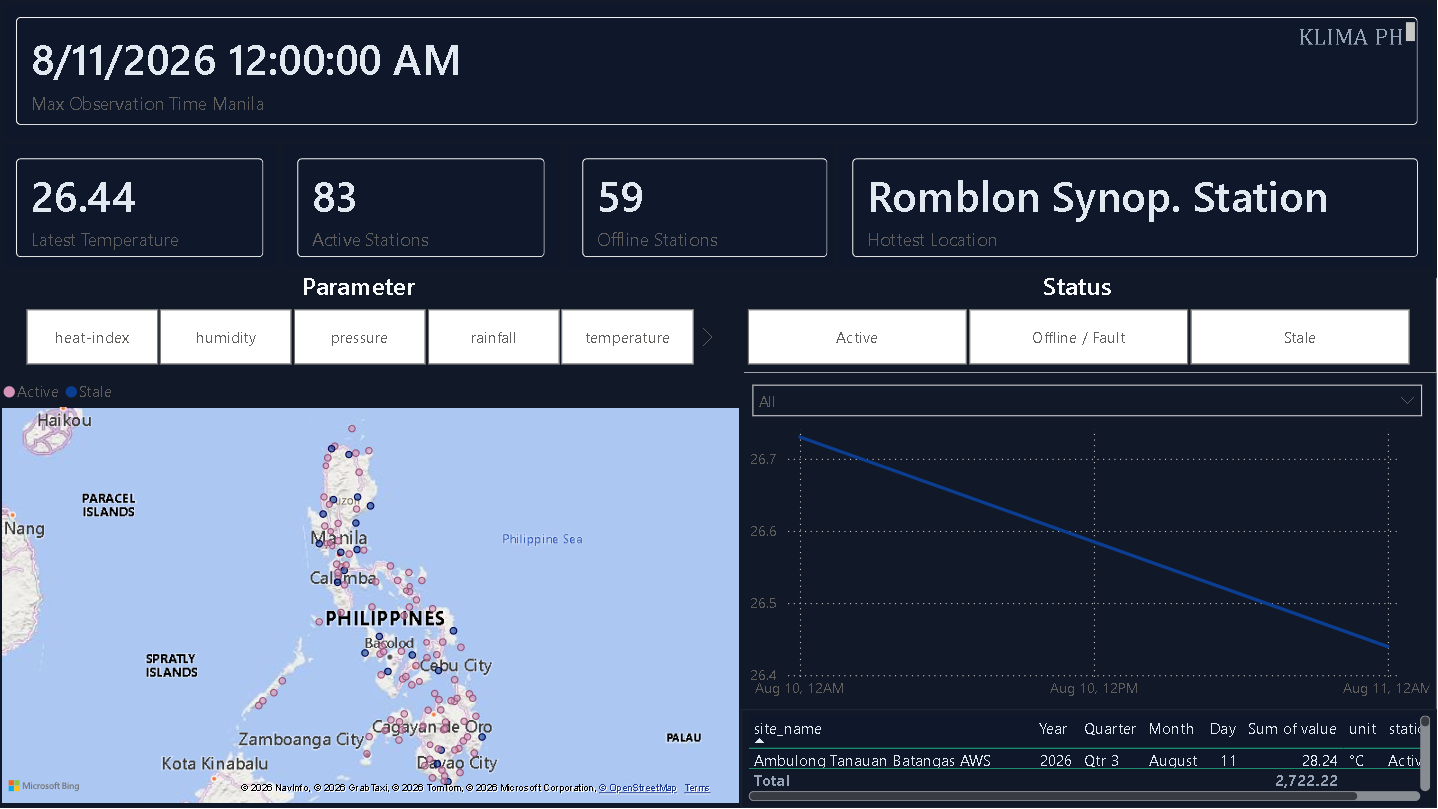
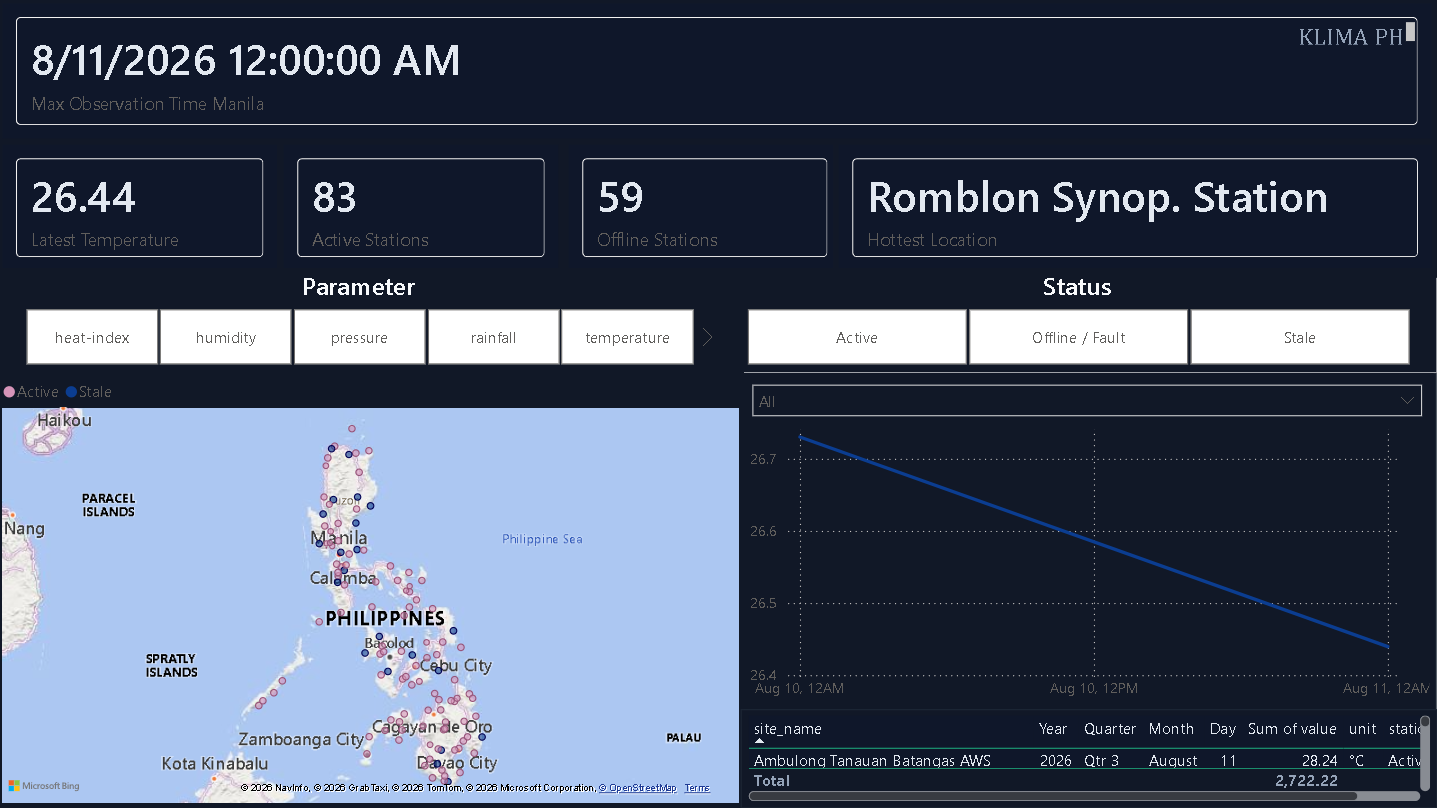
sssss

diff --git a/README.md b/README.md
@@ -1,9 +1,8 @@
 <p align="center">
-  <img src="docs/assets/logo.png" alt="KLIMA" width="200" />
+  <img src="docs/assets/logo.png" alt="KLIMA" width="360" />
 </p>
 
 <p align="center">
-  <strong>Kloud-Linked Integrated Meteorological Analytics</strong><br />
   Philippine weather stations → Supabase → Power BI.<br />
   Free-tier pipeline. Updates about every 15 minutes.
 </p>
@@ -52,18 +51,14 @@ No paid scheduler. Built to stay on free plans.
 > Personal workspace link. Sign-in may be required. Screenshots below are for visitors without access.
 
 <p align="center">
-  <img src="docs/assets/dashboard-full.png" alt="KLIMA Power BI dashboard — full canvas" width="900" />
+  <img src="docs/assets/dashboard-full.png" alt="KLIMA Power BI dashboard — full canvas" width="920" />
 </p>
 
 <details>
-<summary><strong>KPI strip · Map</strong></summary>
+<summary><strong>KPI strip</strong></summary>
 
 <p align="center">
-  <img src="docs/assets/dashboard-kpis.png" alt="KPI cards: temperature, active, offline, hottest location" width="900" />
-</p>
-
-<p align="center">
-  <img src="docs/assets/dashboard-map.png" alt="Philippine AWS stations map" width="900" />
+  <img src="docs/assets/dashboard-kpis.png" alt="KPI cards: temperature, active, offline, hottest location" width="920" />
 </p>
 
 </details>
@@ -257,7 +252,7 @@ Built for free tiers — not a guaranteed production SLA.
 
 | Path | Purpose |
 |------|---------|
-| [`docs/assets/`](docs/assets/) | Logo, architecture, schema, dashboard screenshots |
+| [`docs/assets/`](docs/assets/) | Logo, schema, dashboard screenshots |
 | [`docs/SCREENSHOTS.md`](docs/SCREENSHOTS.md) | Final image inventory |
 | [`powerbi/`](powerbi/) | Dashboard connection and layout |
 

diff --git a/docs/SCREENSHOTS.md b/docs/SCREENSHOTS.md
@@ -5,11 +5,9 @@ All README images live in [`assets/`](assets/). Every file below is used.
 | File | Used in README | Content |
 |------|----------------|---------|
 | `logo.png` | Hero | KLIMA wordmark |
-| `architecture.png` | Architecture | Pipeline diagram (PANaHON → Actions → Supabase → Power BI) |
-| `star-schema.png` | Architecture | Postgres star schema |
+| `star-schema.png` | Architecture | Postgres schema |
 | `dashboard-full.png` | Live dashboard | Full Power BI canvas |
 | `dashboard-kpis.png` | Live dashboard (details) | KPI card strip |
-| `dashboard-map.png` | Live dashboard (details) | Stations map |
 
 ## Power BI report
 
@@ -21,3 +19,4 @@ Personal workspace link — sign-in may be required. Screenshots cover anonymous
 
 - No passwords, `.env`, or Actions secret values in images  
 - Prefer temperature + clear status filters for map shots  
+- Export screenshots as RGB PNG (avoid odd gamma / sRGB chunks that wash out on GitHub)

diff --git a/docs/assets/README.md b/docs/assets/README.md
@@ -5,10 +5,8 @@ PNG media referenced by the root [`README.md`](../../README.md).
 | File | Role |
 |------|------|
 | `logo.png` | Brand / hero |
-| `architecture.png` | Pipeline overview |
 | `star-schema.png` | Database schema |
 | `dashboard-full.png` | Full dashboard |
 | `dashboard-kpis.png` | KPI close-up |
-| `dashboard-map.png` | Map close-up |
 
 See [`../SCREENSHOTS.md`](../SCREENSHOTS.md) for the inventory.
